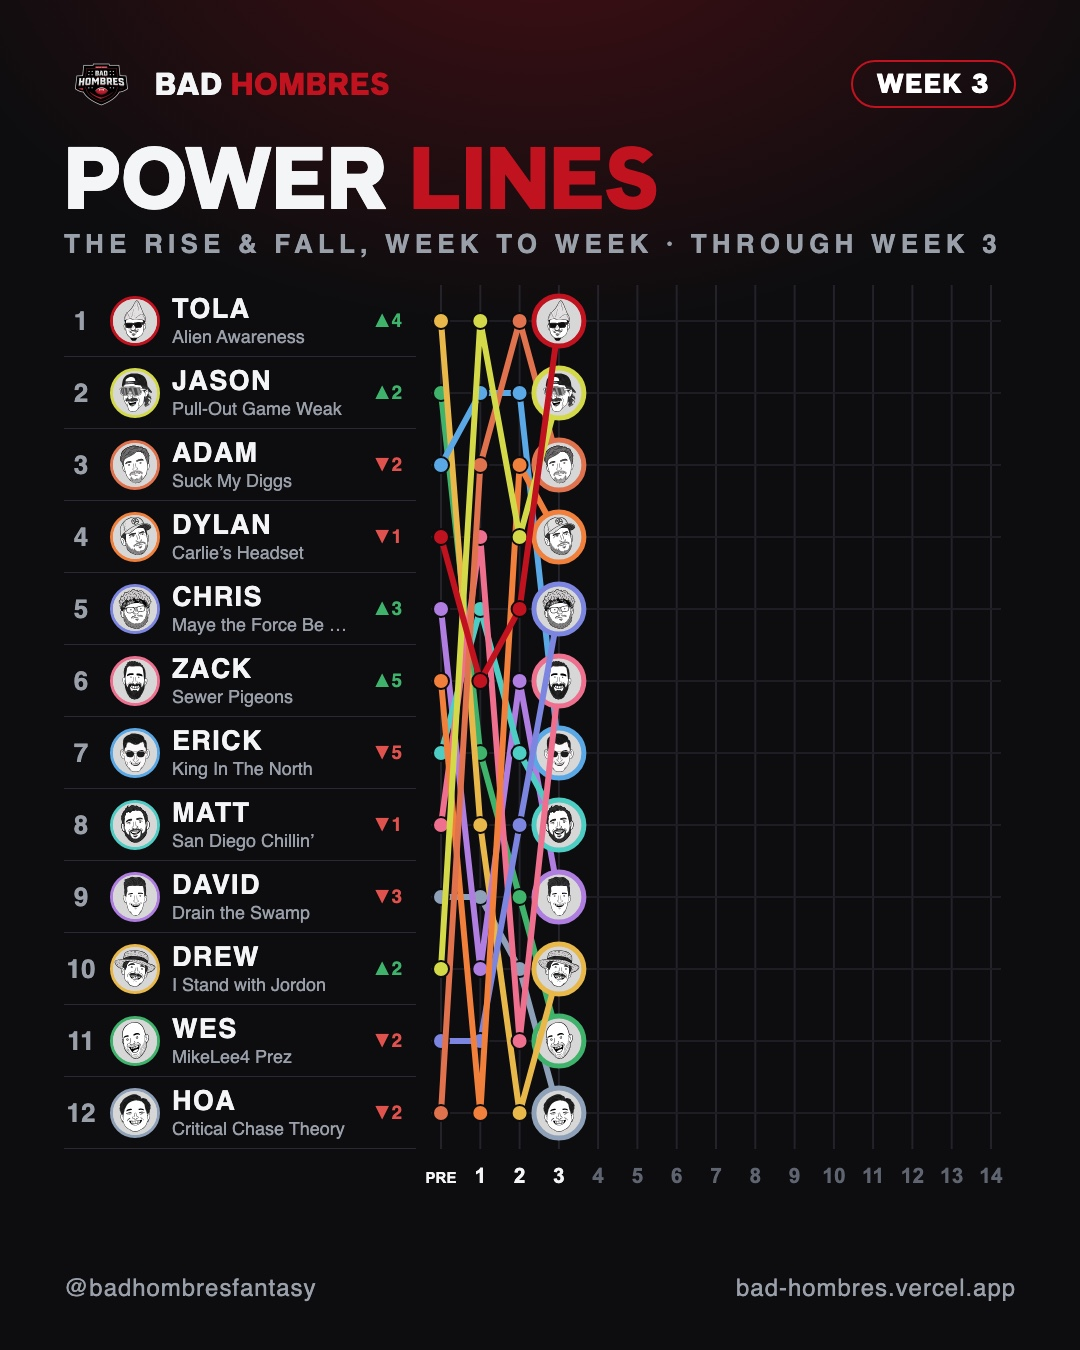
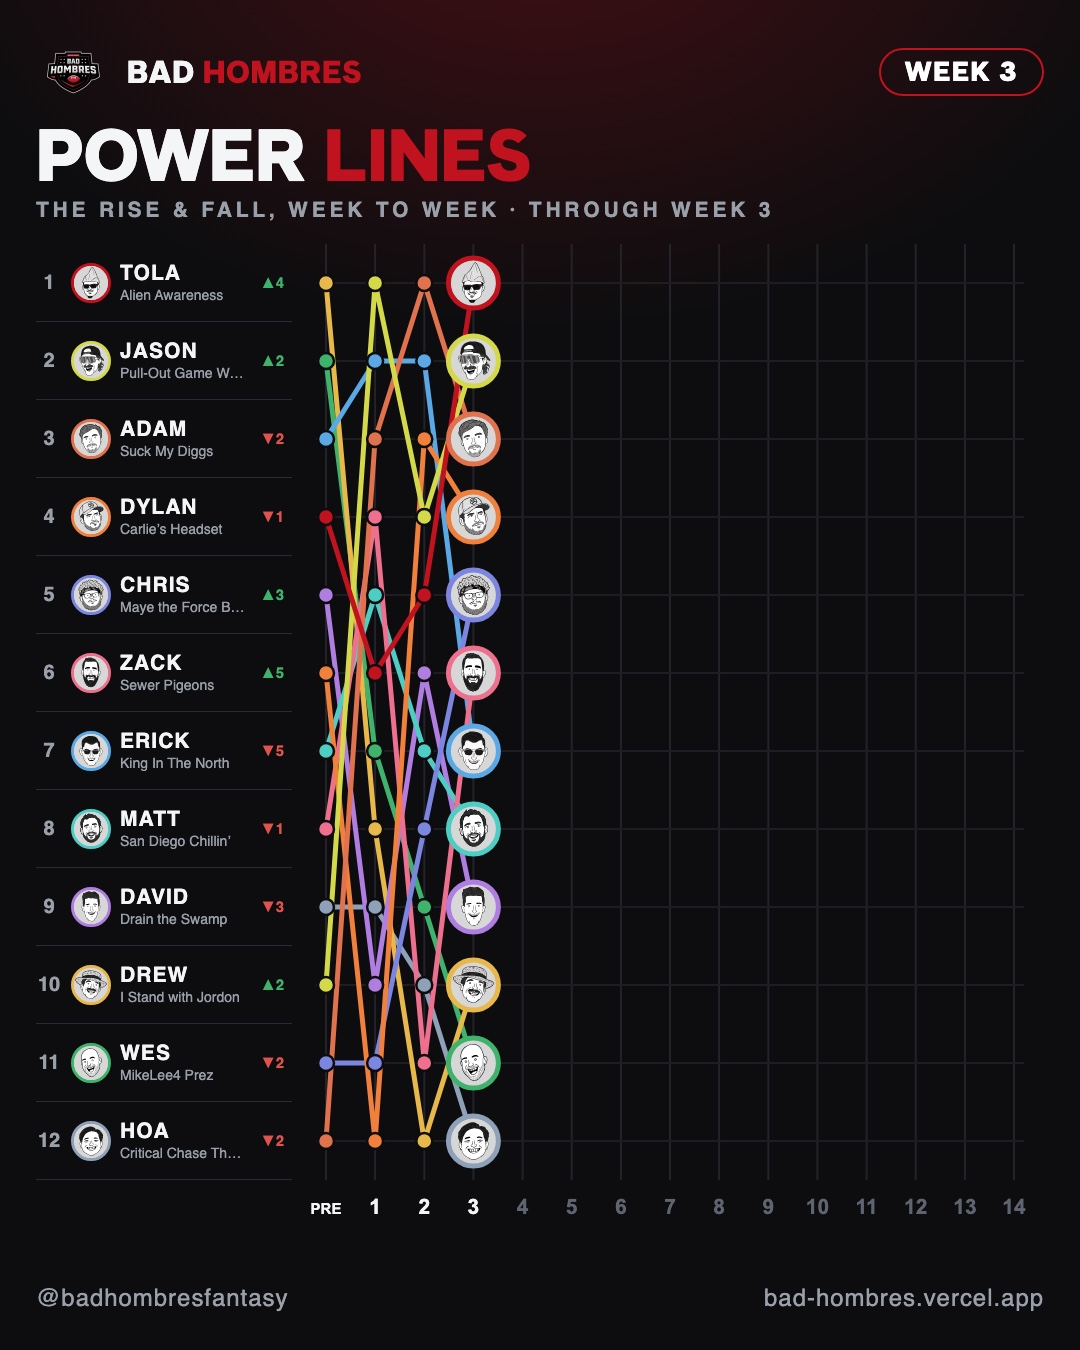
Power Lines poster: quieter legend, wider chart, faces always on top

diff --git a/scripts/social-render.py b/scripts/social-render.py
@@ -200,23 +200,24 @@ CSS = """
 .bn .tm{font-size:30px;color:var(--muted);margin-top:6px}
 .bn .stat{margin-top:22px;font-size:32px}.bn .stat b{color:var(--gold)}
 
-/* Power Lines poster: a line per team, week by week */
-.jr{flex:1;display:flex;flex-direction:column;padding:26px 0 18px}
-.jr h1{font-size:84px}.jr h1 em{font-style:normal;color:var(--red)}
-.jr .sub{color:var(--muted);font-size:26px;letter-spacing:.2em;font-weight:700;margin:14px 0 26px;text-transform:uppercase}
-.jr .body{display:flex;gap:0;flex:1}
-.jr .lg{width:352px;flex:none}
-.jr .lr{display:flex;align-items:center;gap:12px;border-bottom:1px solid var(--line)}
-.jr .lr .rk{width:34px;font-size:26px;font-weight:700;color:var(--muted);text-align:center;flex:none}
-.jr .lr .dot{width:12px;height:12px;border-radius:50%;flex:none}
-.jr .lr img{width:50px;height:50px;border-radius:50%;object-fit:cover;background:#d7d7d7;flex:none;border:3px solid var(--c)}
+/* Power Lines poster: a line per team, week by week — the lines get the room, the legend stays quiet */
+.frame.pl{padding:44px 36px 38px}
+.jr{flex:1;display:flex;flex-direction:column;padding:22px 0 14px}
+.jr h1{font-size:70px}.jr h1 em{font-style:normal;color:var(--red)}
+.jr .sub{color:var(--muted);font-size:21px;letter-spacing:.18em;font-weight:700;margin:12px 0 22px;text-transform:uppercase}
+.jr .body{display:flex;flex:1}
+.jr .lg{width:256px;flex:none}
+.jr .lr{display:flex;align-items:center;gap:9px;border-bottom:1px solid var(--line)}
+.jr .lr .rk{width:26px;font-size:20px;font-weight:700;color:var(--muted);text-align:center;flex:none}
+.jr .lr img{width:40px;height:40px;border-radius:50%;object-fit:cover;background:#d7d7d7;flex:none;border:3px solid var(--c)}
 .jr .lr .tx{min-width:0;flex:1}
-.jr .lr b{display:block;font-size:27px;letter-spacing:.05em;text-transform:uppercase;line-height:1.05}
-.jr .lr span.tm{display:block;font-size:18px;color:var(--muted);white-space:nowrap;overflow:hidden;text-overflow:ellipsis;margin-top:3px}
-.jr .lr .mv{font-size:19px;font-weight:800;color:var(--muted);flex:none;width:52px;text-align:right;padding-right:14px}
+.jr .lr b{display:block;font-size:21px;letter-spacing:.05em;text-transform:uppercase;line-height:1.05}
+.jr .lr span.tm{display:block;font-size:14px;color:var(--muted);white-space:nowrap;overflow:hidden;text-overflow:ellipsis;margin-top:3px}
+.jr .lr .mv{font-size:15px;font-weight:800;color:var(--muted);flex:none;width:36px;text-align:right;padding-right:8px}
 .jr .lr .mv.up{color:#3fb26b}.jr .lr .mv.dn{color:#e0524d}
-.jr svg{display:block;flex:1}
+.jr svg{display:block;flex:none}
 
+/* Hard Numbers: the spec-driven stats carousel (see stats_slides) */
 .sf{flex:1;display:flex;flex-direction:column;justify-content:center}
 .sf.center{align-items:center;text-align:center}
 .sf .big{font-size:250px;line-height:.86;color:#fff;margin:18px 0 0}
@@ -268,8 +269,8 @@ def power_poster(week, season, teams_by_m, records):
     n = len(order)
     cols = (["PRE"] if hist[0][0] == "PRE" else []) + [str(i) for i in range(1, 15)]
     total = len(cols)
-    RH = 72                                   # one row per rank; the legend and the chart share it
-    CW, CH, L, R = 598, RH * n, 24, 24
+    RH = 78                                   # one row per rank; the legend and the chart share it
+    CW, CH, L, R = 1080 - 72 - 256, RH * n, 34, 30
     x = lambda i: L + i * (CW - L - R) / (total - 1)
     y = lambda r: (r - .5) * RH
     g = []
@@ -280,21 +281,22 @@ def power_poster(week, season, teams_by_m, records):
                      x(i), CH + 34, "#f4f5f7" if i < len(hist) else "#5e6470", 15 if c == "PRE" else 21, c))
     for r in range(1, n + 1):
         g.append('<line x1="%d" y1="%.1f" x2="%d" y2="%.1f" stroke="#1d1d22" stroke-width="2"/>' % (L - 10, y(r), CW - R + 10, y(r)))
-    # a line per team; the current No. 1 drawn last so it sits on top
+    # three passes, so nothing ever covers a face: all the lines, then the weekly dots, then
+    # the faces that end each line (the current No. 1 last, on top of any neighbour)
+    paths = {m: [(x(i), y(h[m])) for i, (_, h) in enumerate(hist) if m in h] for m in order}
     for m in reversed(order):
-        pts = [(x(i), y(h[m])) for i, (_, h) in enumerate(hist) if m in h]
-        c = color[m]
-        if len(pts) > 1:
-            g.append('<polyline points="%s" fill="none" stroke="%s" stroke-width="6" stroke-linejoin="round" stroke-linecap="round"/>' % (
-                " ".join("%.1f,%.1f" % p for p in pts), c))
-        for px, py in pts[:-1]:
-            g.append('<circle cx="%.1f" cy="%.1f" r="8" fill="%s" stroke="#0d0d0f" stroke-width="2"/>' % (px, py, c))
-        # each line ends in the manager's face, so a line is never just a colour
-        px, py = pts[-1]
+        if len(paths[m]) > 1:
+            g.append('<polyline points="%s" fill="none" stroke="%s" stroke-width="5" stroke-linejoin="round" stroke-linecap="round"/>' % (
+                " ".join("%.1f,%.1f" % p for p in paths[m]), color[m]))
+    for m in reversed(order):
+        for px, py in paths[m][:-1]:
+            g.append('<circle cx="%.1f" cy="%.1f" r="8" fill="%s" stroke="#0d0d0f" stroke-width="2.5"/>' % (px, py, color[m]))
+    for m in reversed(order):
+        px, py = paths[m][-1]
         g.append('<circle cx="%.1f" cy="%.1f" r="25" fill="#d7d7d7" stroke="%s" stroke-width="5"/>'
                  '<clipPath id="f-%s"><circle cx="%.1f" cy="%.1f" r="22"/></clipPath>'
                  '<image href="%s" x="%.1f" y="%.1f" width="44" height="44" clip-path="url(#f-%s)" preserveAspectRatio="xMidYMid slice"/>' % (
-                     px, py, c, esc(m), px, py, face(m), px - 22, py - 22, esc(m)))
+                     px, py, color[m], esc(m), px, py, face(m), px - 22, py - 22, esc(m)))
     svg = '<svg viewBox="0 0 %d %d" width="%d" height="%d">%s</svg>' % (CW, CH + 44, CW, CH + 44, "".join(g))
     prev = hist[-2][1] if len(hist) > 1 else {}
     def move(m):
@@ -309,7 +311,7 @@ def power_poster(week, season, teams_by_m, records):
     body = ('<div class="jr"><h1 class="disp">Power <em>Lines</em></h1>'
             '<div class="sub">The rise &amp; fall, week to week · through Week %s</div>'
             '<div class="body"><div class="lg">%s</div>%s</div></div>') % (esc(week), legend, svg)
-    return frame(week, body)
+    return frame(week, body, cls="pl")
 
 def frame(week, body, cls="", badge=None):
     return ('<div class="frame %s"><div class="top"><div class="brand"><img src="%s" alt="">'
